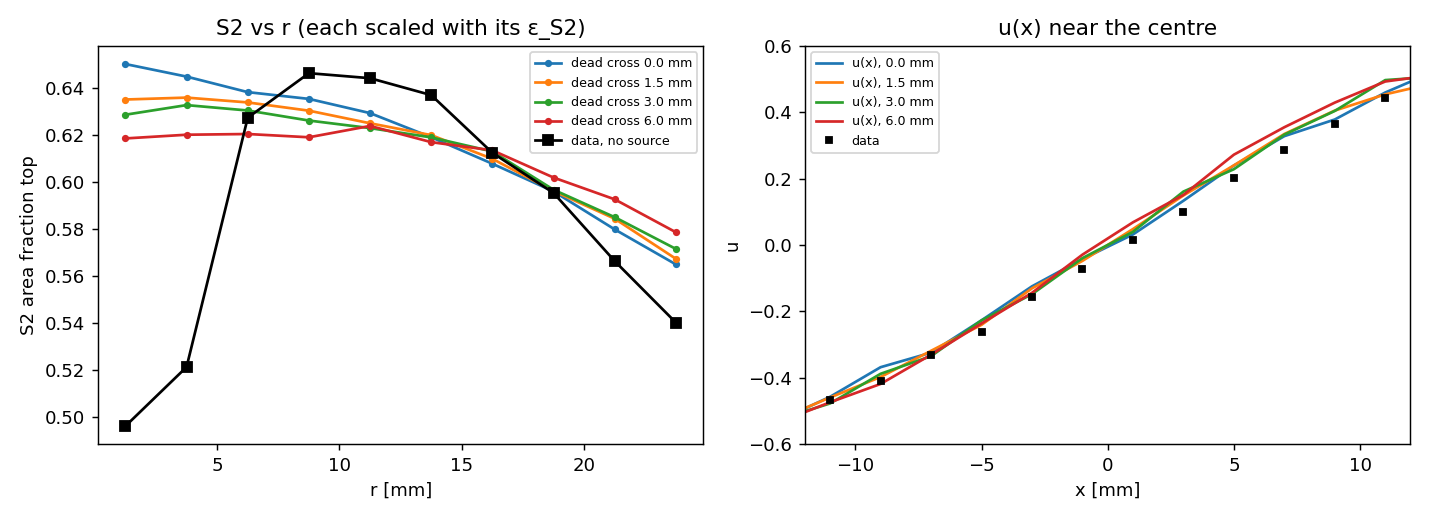
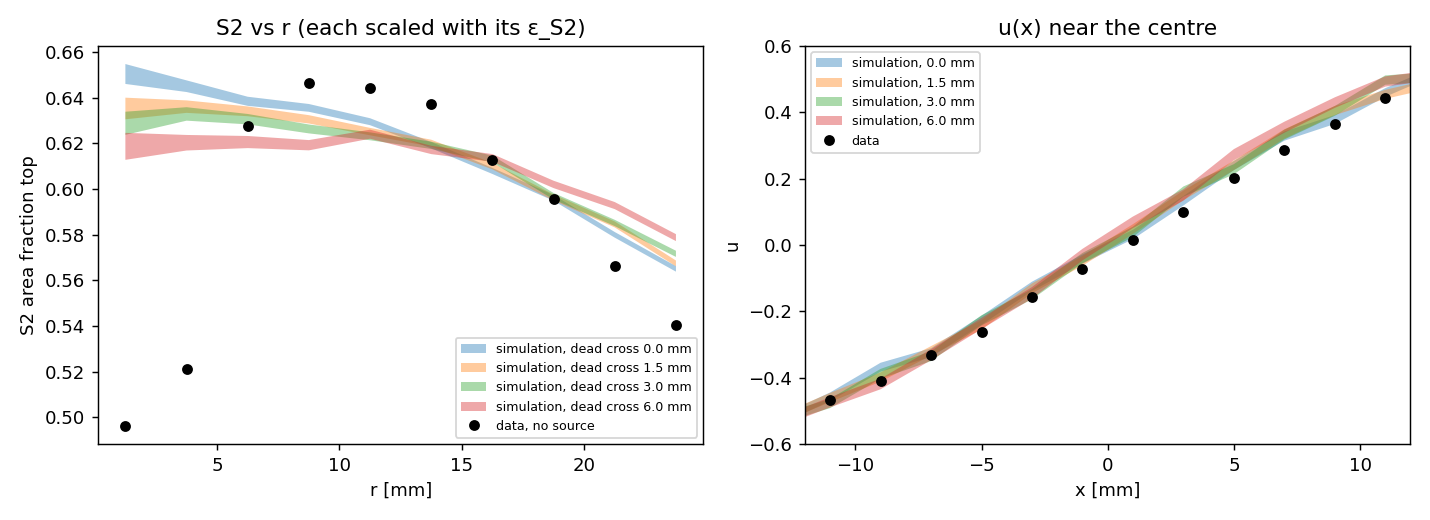
Anode rotation study (120 deg = 30 deg relative to the gate: no optical effect); comparison plots: simulation as bands, data as points

diff --git a/tools/step8_fit.py b/tools/step8_fit.py
@@ -14,6 +14,7 @@ depend on that choice, differences between grid points are what matter.
 """
 import csv
 import json
+import pickle
 import sys
 from pathlib import Path
 
@@ -114,15 +115,19 @@ def main():
     m_s1z = (zc < -4) & np.isfinite(d_s1z)          # last slice (gate) excluded: events above the gate in the data
     m_u, m_v = np.isfinite(d_u), np.isfinite(d_v)
 
+    cache = ROOT / "run" / "step8_cache.pkl"            # binned curves per point; delete it after rerunning the scans
+    replot = cache.exists() and "--refit" not in sys.argv
     idx2 = json.load(open(SCANS / "fit_s2" / "points.json"))["points"]
     idx1 = json.load(open(SCANS / "fit_s1" / "points.json"))["points"]
     key = lambda p: tuple(p["params"][k] for k in PARAMS)  # noqa: E731
     s1_by = {key(p): p for p in idx1}
     rows, store = [], {}
+    binned = pickle.load(open(cache, "rb")) if replot else {}
     for i, p in enumerate(idx2):
         k = key(p)
-        b2 = bin_s2(point_records("fit_s2", p), ed)
-        b1 = bin_s1(point_records("fit_s1", s1_by[k]), ed)
+        if k not in binned:
+            binned[k] = (bin_s2(point_records("fit_s2", p), ed), bin_s1(point_records("fit_s1", s1_by[k]), ed))
+        b2, b1 = binned[k]
         e2 = np.hypot(b2["aft_e"], SYS["s2r"])
         eps2, c2 = fit_eps(b2["aft"], e2, d_s2r, m_s2r)
         e1 = np.hypot(b1["aft_e"], SYS["s1z"])
@@ -133,6 +138,7 @@ def main():
                          chi2_uv=cu + cv, chi2=c2 + c1 + cu + cv))
         store[k] = (b2, b1, eps2, eps1)
         print(f"{i + 1}/{len(idx2)} {k} eps_S2 {eps2:.3f} eps_S1 {eps1:.3f} chi2 {c2:.1f} {c1:.1f} {cu + cv:.1f}", flush=True)
+    pickle.dump(binned, open(cache, "wb"))
     ndf = dict(s2r=int(m_s2r.sum()) - 1, s1z=int(m_s1z.sum()) - 1, uv=int(m_u.sum() + m_v.sum()))
     rows.sort(key=lambda r: r["chi2"])
     with open(OUT / "fit_table.csv", "w", newline="") as f:
@@ -150,23 +156,31 @@ def main():
                           for v in sorted({r[SHORT[q]] for r in rows})}
 
     # figure 1: best fit vs data
+    # simulation band = range over the 10 best grid points (each scaled with its own eps), data = points
+    top10 = [tuple(r[SHORT[q]] for q in PARAMS) for r in rows[:10]]
+    s2c = np.array([scale(store[k][0]["aft"], store[k][2]) for k in top10])
+    s1c = np.array([scale(store[k][1]["aft"], store[k][3]) for k in top10])
+    uc = np.array([store[k][0]["u"] for k in top10])
+    vc = np.array([store[k][0]["v"] for k in top10])
+    band = dict(alpha=0.35, lw=0)
+    dpt = dict(ls="none", marker="o", ms=5, color="k")
     fig, ax = plt.subplots(2, 2, figsize=(11, 8))
     a = ax[0, 0]
-    a.errorbar(rc, scale(b2["aft"], eps2), b2["aft_e"], fmt="o-", color="C0", label=f"simulation × ε_S2 = {eps2:.2f}")
-    a.plot(rc, d_s2r, "ks-", label="data, no source (3–20 kPE)")
-    a.axvspan(0, 5, color="0.9", label="not in the fit (central dip)")
-    a.set(xlabel="r [mm]", ylabel="S2 area fraction top", title="S2 vs r")
+    a.fill_between(rc, s2c.min(0), s2c.max(0), color="C0", label="simulation, 10 best grid points (each × its ε_S2)", **band)
+    a.plot(rc, d_s2r, label="data, no source (S2 3–20 kPE)", **dpt)
+    a.axvspan(0, 5, color="0.9", zorder=0, label="not in the fit (central dip)")
+    a.set(xlabel="r [mm]", ylabel="S2 area fraction top", title=f"S2 vs r (best ε_S2 = {eps2:.2f})")
     a.legend(fontsize=7)
     a = ax[0, 1]
-    a.errorbar(zc, scale(b1["aft"], eps1), b1["aft_e"], fmt="o-", color="C0", label=f"simulation × ε_S1 = {eps1:.2f}")
-    a.plot(zc, d_s1z, "ks-", label="data, no source (S1 > 20 PE)")
-    a.set(xlabel="z [mm]", ylabel="S1 area fraction top", title="S1 vs z")
+    a.fill_between(zc, s1c.min(0), s1c.max(0), color="C0", label="simulation, 10 best grid points (each × its ε_S1)", **band)
+    a.plot(zc, d_s1z, label="data, no source (S1 > 20 PE)", **dpt)
+    a.set(xlabel="z [mm]", ylabel="S1 area fraction top", title=f"S1 vs z (best ε_S1 = {eps1:.2f})")
     a.legend(fontsize=7)
     a = ax[1, 0]
-    a.plot(pc, b2["u"], "o-", color="C0", ms=3, label="simulation u(x)")
-    a.plot(pc, d_u, "ks-", ms=3, label="data u(x)")
-    a.plot(pc, b2["v"], "o--", color="C2", ms=3, label="simulation v(y)")
-    a.plot(pc, d_v, "k^--", ms=3, label="data v(y)")
+    a.fill_between(pc, uc.min(0), uc.max(0), color="C0", label="simulation u(x)", **band)
+    a.fill_between(pc, vc.min(0), vc.max(0), color="C2", label="simulation v(y)", **band)
+    a.plot(pc, d_u, label="data u(x)", **dpt)
+    a.plot(pc, d_v, ls="none", marker="s", ms=5, mfc="none", mec="k", label="data v(y)")
     a.set(xlabel="position [mm]", ylabel="asymmetry", title="top-sector pattern")
     a.legend(fontsize=7)
     a = ax[1, 1]
@@ -194,12 +208,13 @@ def main():
         cv = np.nansum((((b["v"] - d_v) / np.hypot(b["v_e"], SYS["uv"])) ** 2)[m_v])
         dc[str(wv)] = dict(eps=eps, aft_r=model.tolist(), centre_over_ring=float(model[:2].mean() / model[3:6].mean()),
                            chi2_s2r=c, chi2_uv=cu + cv)
-        ax[0].plot(rc, model, "o-", ms=3, label=f"dead cross {wv} mm")
-        ax[1].plot(pc, b["u"], "-", label=f"u(x), {wv} mm")
-    ax[0].plot(rc, d_s2r, "ks-", label="data, no source")
+        me = b["aft_e"] * model / np.where(b["aft"] > 0, b["aft"], 1)
+        ax[0].fill_between(rc, model - me, model + me, alpha=0.4, lw=0, label=f"simulation, dead cross {wv} mm")
+        ax[1].fill_between(pc, b["u"] - b["u_e"], b["u"] + b["u_e"], alpha=0.4, lw=0, label=f"simulation, {wv} mm")
+    ax[0].plot(rc, d_s2r, ls="none", marker="o", ms=5, color="k", label="data, no source")
     ax[0].set(xlabel="r [mm]", ylabel="S2 area fraction top", title="S2 vs r (each scaled with its ε_S2)")
     ax[0].legend(fontsize=7)
-    ax[1].plot(pc, d_u, "ks", ms=3, label="data")
+    ax[1].plot(pc, d_u, ls="none", marker="o", ms=5, color="k", label="data")
     ax[1].set(xlabel="x [mm]", ylabel="u", title="u(x) near the centre", xlim=(-12, 12), ylim=(-0.6, 0.6))
     ax[1].legend(fontsize=7)
     fig.tight_layout()

diff --git a/tools/anode_rotation.py b/tools/anode_rotation.py
@@ -1,0 +1,95 @@
+#!/usr/bin/env python3
+"""What if the anode mesh is rotated by 120 deg (= 30 deg for a square mesh) relative to the gate?
+Scans anode_rotation_s2 / _s1 (anode at 29.4 deg = as now, 149.4 deg = +120 deg; level 4 mm, middle optics).
+
+    python tools/anode_rotation.py  ->  results/anode_rotation/ (README.md, summary.json, anode_rotation.png)
+"""
+import json
+import sys
+from pathlib import Path
+
+import matplotlib
+
+matplotlib.use("Agg")
+import matplotlib.pyplot as plt  # noqa: E402
+import numpy as np  # noqa: E402
+
+ROOT = Path(__file__).resolve().parents[1]
+sys.path.insert(0, str(ROOT / "tools"))
+from scan_data import load, top_fraction  # noqa: E402
+
+OUT = ROOT / "results" / "anode_rotation"
+TOP = (1, 2, 3, 4)
+ANG = "meshes.1.angle_to_anodes_deg"
+LAB = {29.4: "anode as now (29.4°, aligned with the gate)", 149.4: "anode rotated by 120° (149.4°)"}
+
+
+def fine_contrast(rec, n, half=10.0, step=1.0):
+    """relative RMS of the top-light collection in 1 mm cells of the central 20 x 20 mm, beyond Poisson"""
+    e = np.arange(-half, half + step / 2, step)
+    top = rec[np.isin(rec["sensor"], TOP)]
+    kt, _, _ = np.histogram2d(top["x0"], top["y0"], [e, e])
+    emitted = n * step * step / (np.pi * 30.0 ** 2)          # uniform source over r < 30 mm
+    lce = kt / emitted
+    rel = lce.std() / lce.mean()
+    poisson = 1 / np.sqrt(kt.mean())
+    return float(np.sqrt(max(rel ** 2 - poisson ** 2, 0))), float(rel), float(poisson), lce
+
+
+def main():
+    OUT.mkdir(parents=True, exist_ok=True)
+    s2, s1 = load("anode_rotation_s2"), load("anode_rotation_s1")
+    res = {}
+    fig, ax = plt.subplots(2, 2, figsize=(11, 8))
+    edges = np.arange(0, 30.1, 2.5)
+    rc = 0.5 * (edges[1:] + edges[:-1])
+    ze = np.arange(-52, 0.1, 4)
+    zc = 0.5 * (ze[1:] + ze[:-1])
+    for p, q, col in zip(sorted(s2["points"], key=lambda p: p["params"][ANG]),
+                         sorted(s1["points"], key=lambda p: p["params"][ANG]), ("C0", "C3")):
+        a = p["params"][ANG]
+        r2, n2, r1, n1 = p["rec"], p["n_photons"], q["rec"], q["n_photons"]
+        f2, e2 = top_fraction(r2)
+        f1, e1 = top_fraction(r1)
+        contrast, rel, pois, lce = fine_contrast(r2, n2)
+        r = np.hypot(r2["x0"], r2["y0"])
+        tr = np.array([top_fraction(r2[(r >= lo) & (r < hi)]) for lo, hi in zip(edges[:-1], edges[1:])])
+        z = r1["z0"]
+        tz = np.array([top_fraction(r1[(z >= lo) & (z < hi)]) for lo, hi in zip(ze[:-1], ze[1:])])
+        top = r2[np.isin(r2["sensor"], TOP)]
+        u = np.where(np.isin(top["sensor"], (1, 3)), 1.0, -1.0)
+        pe = np.arange(-24, 24.1, 2)
+        pcen = 0.5 * (pe[1:] + pe[:-1])
+        m = np.abs(top["y0"]) < 3
+        nu, _ = np.histogram(-top["x0"][m], pe)
+        uu = np.histogram(-top["x0"][m], pe, weights=u[m])[0] / nu
+        ue = np.sqrt((1 - uu ** 2) / nu)
+        res[str(a)] = dict(
+            s2_top_fraction=f2, s2_err=e2,
+            s2_lce_top=float(np.isin(r2["sensor"], TOP).sum() / n2), s2_lce_bottom=float((r2["sensor"] == 0).sum() / n2),
+            s1_top_fraction=f1, s1_err=e1,
+            s1_lce_top=float(np.isin(r1["sensor"], TOP).sum() / n1), s1_lce_bottom=float((r1["sensor"] == 0).sum() / n1),
+            anode_foil_absorbed_s2=sum(v for (c, vol), v in p["tally"].items() if vol == "anodeFoil") / n2,
+            fine_structure_rel_rms=contrast, fine_rel_rms_total=rel, fine_poisson=pois)
+        lab = LAB[a]
+        ax[0, 0].fill_between(rc, tr[:, 0] - tr[:, 1], tr[:, 0] + tr[:, 1], color=col, alpha=0.4, lw=0, label=lab)
+        ax[0, 1].fill_between(zc, tz[:, 0] - tz[:, 1], tz[:, 0] + tz[:, 1], color=col, alpha=0.4, lw=0, label=lab)
+        ax[1, 0].fill_between(pcen, uu - ue, uu + ue, color=col, alpha=0.4, lw=0, label=lab)
+        if a > 100:
+            im = ax[1, 1].imshow(lce.T, origin="lower", extent=[-10, 10, -10, 10], cmap="viridis")
+            fig.colorbar(im, ax=ax[1, 1], label="top-PMT light collection")
+    ax[0, 0].set(xlabel="S2 radius r [mm]", ylabel="S2 top fraction", title="S2 top fraction vs r")
+    ax[0, 1].set(xlabel="S1 depth z [mm]", ylabel="S1 top fraction", title="S1 top fraction vs z")
+    ax[1, 0].set(xlabel="x [mm] (data frame)", ylabel="u", title="top-sector asymmetry u(x)")
+    ax[1, 1].set(xlabel="x [mm]", ylabel="y [mm]", title="top light per S2 position, rotated anode (1 mm cells)")
+    for a in ax.flat[:3]:
+        a.legend(fontsize=7)
+    fig.suptitle("Anode mesh rotated by 120° (= 30° for a square mesh) relative to the gate (simulation, ±1σ bands)")
+    fig.tight_layout()
+    fig.savefig(OUT / "anode_rotation.png", dpi=130)
+    json.dump(res, open(OUT / "summary.json", "w"), indent=1)
+    print(json.dumps(res, indent=1))
+
+
+if __name__ == "__main__":
+    main()

diff --git a/tools/step7_compare.py b/tools/step7_compare.py
@@ -82,7 +82,7 @@ def main():
     lo, hi = min(s["s2_aft_r25"] for s in S2), max(s["s2_aft_r25"] for s in S2)
     a.axhspan(lo, hi, color="C0", alpha=0.3, label="simulation (optics ranges)")
     for k in COL:
-        a.plot(xs, arr(D[k]["s2_aft_vs_size_led"]), "o-", color=COL[k], label=LAB[k])
+        a.plot(xs, arr(D[k]["s2_aft_vs_size_led"]), "o", ls="none", color=COL[k], label=LAB[k])
     a.set_xscale("log")
     a.set_xlabel("S2 area [PE]")
     a.set_ylabel("S2 area fraction top")
@@ -94,7 +94,7 @@ def main():
     sr = np.array([s["s2_aft_vs_r"] for s in S2])
     a.fill_between(rc, sr.min(0), sr.max(0), color="C0", alpha=0.3, label="simulation")
     for k in COL:
-        a.plot(rc, arr(D[k]["s2_aft_vs_r_led"]), "o-", color=COL[k], label=LAB[k])
+        a.plot(rc, arr(D[k]["s2_aft_vs_r_led"]), "o", ls="none", color=COL[k], label=LAB[k])
     a.set_xlabel("r [mm]")
     a.set_ylabel("S2 area fraction top")
     a.set_title("S2 AFT vs r (S2 3-20 kPE)", fontsize=10)
@@ -105,7 +105,7 @@ def main():
     s1a = np.array(S1)
     a.fill_between(zc, s1a.min(0), s1a.max(0), color="C0", alpha=0.3, label="simulation (PTFE R 0.90-0.99)")
     for k in COL:
-        a.plot(zc, arr(D[k]["s1_aft_vs_z_led"]), "o-", color=COL[k], label=LAB[k])
+        a.plot(zc, arr(D[k]["s1_aft_vs_z_led"]), "o", ls="none", color=COL[k], label=LAB[k])
     a.set_xlabel("z [mm] (gate 0, cathode -51.8)")
     a.set_ylabel("S1 area fraction top")
     a.set_title("S1 AFT vs z (S1 > 20 PE, r < 25 mm)", fontsize=10)
@@ -117,8 +117,8 @@ def main():
     sv = np.array([s["v_vs_y"] for s in S2])
     a.fill_between(pc, su.min(0), su.max(0), color="C0", alpha=0.3, label="simulation u(x)")
     a.fill_between(pc, sv.min(0), sv.max(0), color="C2", alpha=0.3, label="simulation v(y)")
-    a.plot(pc, arr(D["none"]["u_vs_x"]), "ko-", ms=3, label="data u(x), no source")
-    a.plot(pc, arr(D["none"]["v_vs_y"]), "ks--", ms=3, label="data v(y), no source")
+    a.plot(pc, arr(D["none"]["u_vs_x"]), "ko", ls="none", ms=4, label="data u(x), no source")
+    a.plot(pc, arr(D["none"]["v_vs_y"]), "s", ls="none", mfc="none", mec="k", ms=4, label="data v(y), no source")
     a.set_xlabel("position along the axis [mm] (posrec v2)")
     a.set_ylabel("top-array asymmetry")
     a.set_title("top-sector pattern: u = (1+3-2-4)/top, v = (1+2-3-4)/top", fontsize=10)

diff --git a/results/anode_rotation/README.md b/results/anode_rotation/README.md
@@ -1,0 +1,23 @@
+# Anode mesh rotated by 120° relative to the gate (2026-10-05)
+
+Question: what changes if the anode mesh is rotated by 120° relative to the gate? A square mesh (and the 456-hole
+pattern) repeats every 90°, so 120° = **30° relative rotation**. Scans `anode_rotation_s2` / `_s1` (anode at 29.4° =
+as now, aligned with the gate, vs 149.4°; level 4 mm, middle optics; 4·10⁷ photons each). `tools/anode_rotation.py`.
+
+| | anode as now | anode +120° |
+|---|---|---|
+| S2 top fraction | 0.5631 ± 0.0003 | 0.5632 ± 0.0003 |
+| S2 light collection top / bottom | 4.249 / 3.297 % | 4.249 / 3.295 % |
+| S2 light absorbed on the anode foil | 12.29 % | 12.29 % |
+| S1 top fraction | 0.1769 ± 0.0002 | 0.1767 ± 0.0002 |
+| S1 light collection top / bottom | 1.336 / 6.219 % | 1.335 / 6.219 % |
+| fine structure of the top light vs S2 position (1 mm cells, RMS beyond statistics) | 3.3 % | 2.8 % |
+
+**Optically nothing changes:** top fraction, light collection, the radial profile, the sector pattern and the S1
+profile are identical within the statistical errors. The light hitting the anode (S2 is produced just below it) sees
+the same open fraction whatever the orientation, and the gate–anode overlap pattern (moiré) only shows as a ~3 %
+fine structure on the mm scale in both cases.
+
+Not in this simulation: the electric field. A rotation changes the gate–anode field map locally (where the bars cross),
+which could matter for the electron extraction and the electroluminescence — that needs a field calculation, not an
+optical one.
